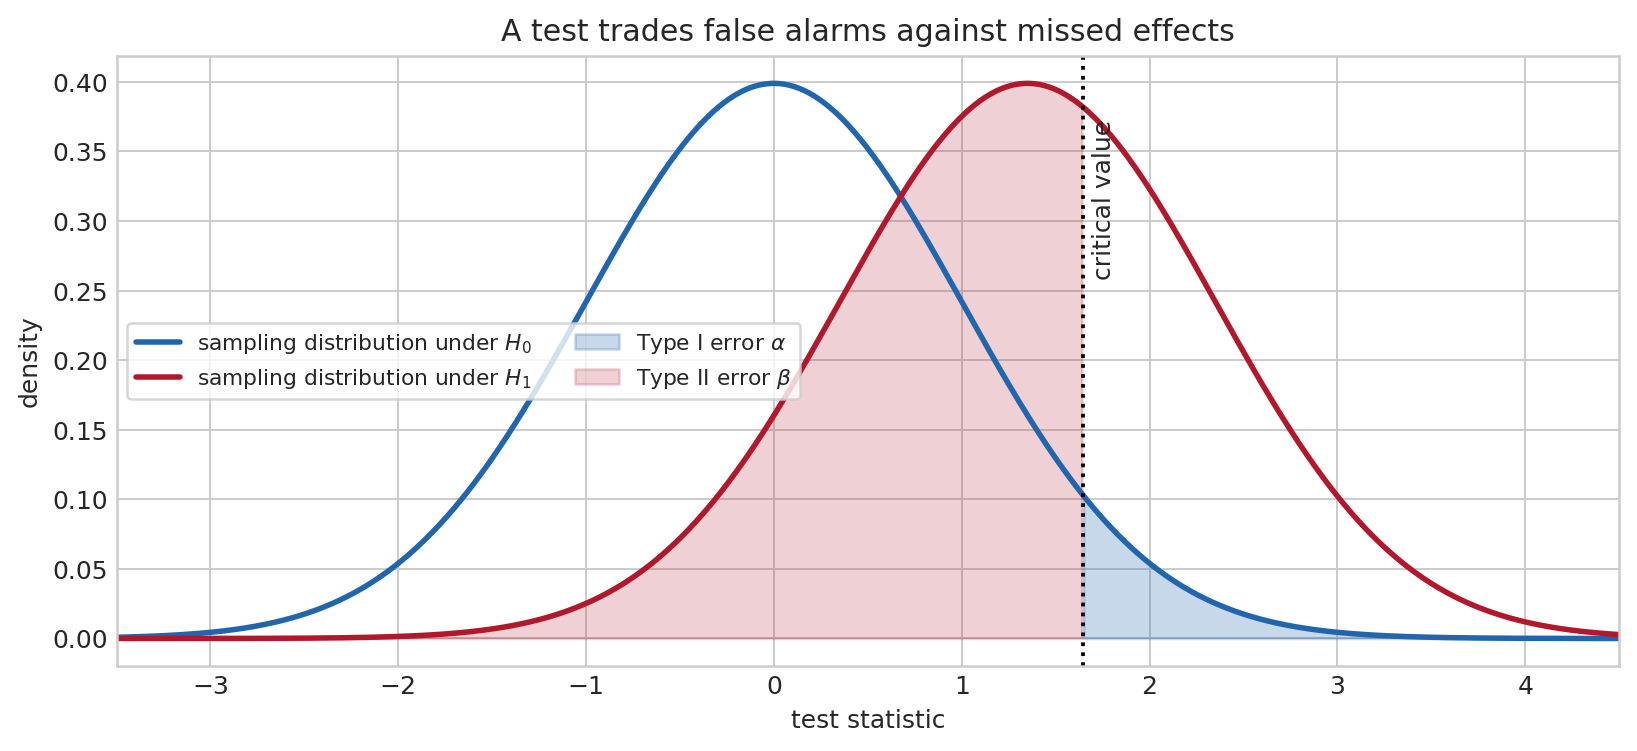
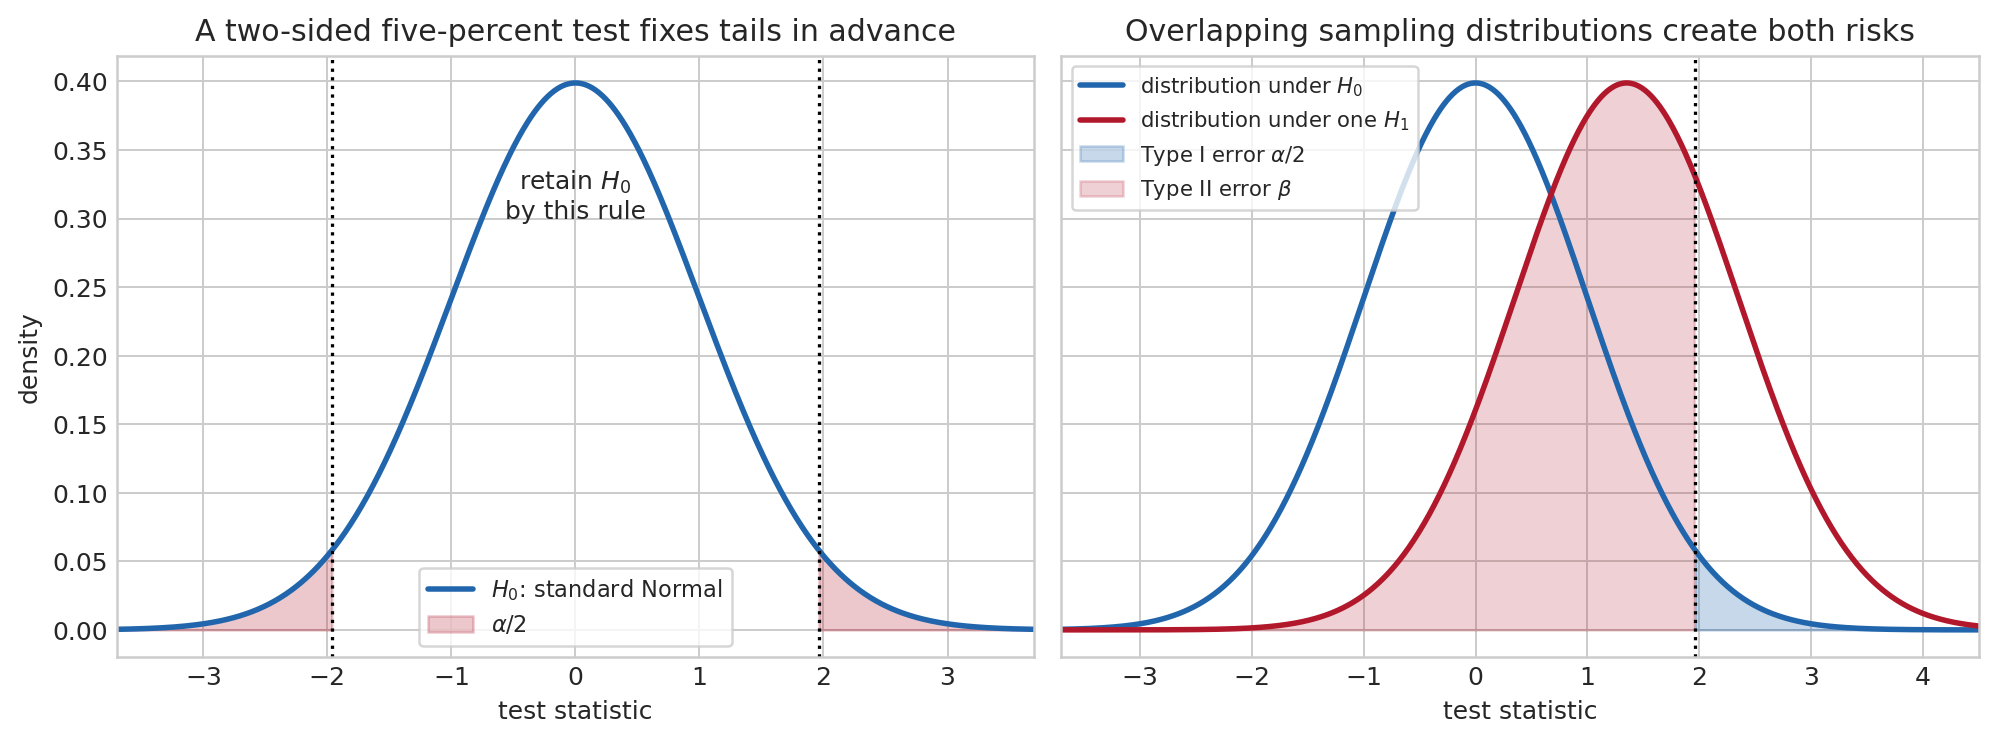
Expand probability and inference foundations

diff --git a/code/python/make_math_foundations_figures.py b/code/python/make_math_foundations_figures.py
@@ -247,6 +247,36 @@ def distribution_moments():
     plt.close(fig)
 
 
+def income_skewness_and_kurtosis():
+    x_income = np.linspace(.01, 7.5, 800)
+    median, sigma_log = 1.0, .72
+    income = stats.lognorm.pdf(x_income, s=sigma_log, scale=median)
+    mean_income = median * np.exp(sigma_log**2 / 2)
+    x = np.linspace(-5, 5, 900)
+    t_scale = np.sqrt(3 / 5)
+    normal_tail = 2 * stats.norm.sf(2)
+    t_tail = 2 * stats.t.sf(2 / t_scale, 5)
+    fig, axes = plt.subplots(1, 2, figsize=(11, 4.25))
+    axes[0].plot(x_income, income, color=GOLD, lw=2.4)
+    axes[0].fill_between(x_income, 0, income, color=GOLD, alpha=.14)
+    axes[0].axvline(median, color=BLUE, lw=1.8, ls=":", label=f"median = {median:.1f}")
+    axes[0].axvline(mean_income, color=RED, lw=1.8, ls="--", label=f"mean = {mean_income:.2f}")
+    axes[0].annotate("rare high incomes\npull the mean rightward", xy=(mean_income, .20), xytext=(3.7, .47),
+                     arrowprops={"arrowstyle": "->", "color": GREY}, color=GREY, fontsize=10)
+    axes[0].set(title="Skewness: income is a familiar right-tailed example", xlabel="income, in arbitrary units", ylabel="density", xlim=(0, 7.5))
+    axes[0].legend(frameon=True)
+    axes[1].plot(x, stats.norm.pdf(x), color=BLUE, lw=2.2, label="Normal, variance one")
+    axes[1].plot(x, stats.t.pdf(x / t_scale, 5) / t_scale, color=PURPLE, lw=2.2, label=r"$t_5$, variance one")
+    axes[1].fill_between(x[x >= 2], 0, stats.t.pdf(x[x >= 2] / t_scale, 5) / t_scale, color=PURPLE, alpha=.16)
+    axes[1].fill_between(x[x <= -2], 0, stats.t.pdf(x[x <= -2] / t_scale, 5) / t_scale, color=PURPLE, alpha=.16)
+    axes[1].set(title="Kurtosis: equal variance, very different tail risk", xlabel="standardised return", ylabel="density")
+    axes[1].legend(frameon=True)
+    axes[1].text(.5, .76, f"$P(|X|>2)$: {normal_tail:.3f} vs {t_tail:.3f}", transform=axes[1].transAxes, ha="center", fontsize=10)
+    fig.tight_layout()
+    fig.savefig(FIGURES / "income-skewness-kurtosis.png", dpi=180, bbox_inches="tight")
+    plt.close(fig)
+
+
 def basic_distributions():
     k = np.arange(0, 13)
     x = np.linspace(0, 5, 700)
@@ -301,18 +331,49 @@ def hypothesis_testing():
     x = np.linspace(-4, 5, 1000)
     h0 = stats.norm.pdf(x)
     h1 = stats.norm.pdf(x, loc=1.35)
-    critical = stats.norm.ppf(.95)
-    fig, ax = plt.subplots(figsize=(9.2, 4.3))
-    ax.plot(x, h0, color=BLUE, lw=2.2, label=r"sampling distribution under $H_0$")
-    ax.plot(x, h1, color=RED, lw=2.2, label=r"sampling distribution under $H_1$")
-    ax.fill_between(x[x >= critical], 0, h0[x >= critical], color=BLUE, alpha=.25, label=r"Type I error $\alpha$")
-    ax.fill_between(x[x < critical], 0, h1[x < critical], color=RED, alpha=.20, label=r"Type II error $\beta$")
-    ax.axvline(critical, color="black", ls=":", lw=1.5)
-    ax.text(critical + .05, ax.get_ylim()[1] * .89, "critical value", rotation=90, va="top")
-    ax.set(title="A test trades false alarms against missed effects", xlabel="test statistic", ylabel="density", xlim=(-3.5, 4.5))
-    ax.legend(frameon=True, ncol=2, fontsize=8.7)
+    left_critical, right_critical = stats.norm.ppf(.025), stats.norm.ppf(.975)
+    fig, axes = plt.subplots(1, 2, figsize=(11.2, 4.25), sharey=True)
+    ax = axes[0]
+    ax.plot(x, h0, color=BLUE, lw=2.2, label=r"$H_0$: standard Normal")
+    ax.fill_between(x[x <= left_critical], 0, h0[x <= left_critical], color=RED, alpha=.24, label=r"$\alpha/2$")
+    ax.fill_between(x[x >= right_critical], 0, h0[x >= right_critical], color=RED, alpha=.24)
+    ax.axvline(left_critical, color="black", ls=":", lw=1.3)
+    ax.axvline(right_critical, color="black", ls=":", lw=1.3)
+    ax.text(0, .30, "retain $H_0$\nby this rule", ha="center", fontsize=10)
+    ax.set(title="A two-sided five-percent test fixes tails in advance", xlabel="test statistic", ylabel="density", xlim=(-3.7, 3.7))
+    ax.legend(frameon=True, fontsize=9)
+    ax = axes[1]
+    ax.plot(x, h0, color=BLUE, lw=2.2, label=r"distribution under $H_0$")
+    ax.plot(x, h1, color=RED, lw=2.2, label=r"distribution under one $H_1$")
+    ax.fill_between(x[x >= right_critical], 0, h0[x >= right_critical], color=BLUE, alpha=.25, label=r"Type I error $\alpha/2$")
+    ax.fill_between(x[x < right_critical], 0, h1[x < right_critical], color=RED, alpha=.20, label=r"Type II error $\beta$")
+    ax.axvline(right_critical, color="black", ls=":", lw=1.3)
+    ax.set(title="Overlapping sampling distributions create both risks", xlabel="test statistic", xlim=(-3.7, 4.5))
+    ax.legend(frameon=True, fontsize=8.5)
     fig.tight_layout()
     fig.savefig(FIGURES / "hypothesis-testing-errors.png", dpi=180, bbox_inches="tight")
+    plt.close(fig)
+
+
+def repeated_confidence_intervals():
+    rng = np.random.default_rng(2026)
+    true_mean, n, repetitions = 0.8, 24, 24
+    means = rng.normal(true_mean, 1.0, size=(repetitions, n)).mean(axis=1)
+    means[0] = true_mean + .70
+    half_width = stats.t.ppf(.975, n - 1) / np.sqrt(n)
+    low, high = means - half_width, means + half_width
+    misses = (low > true_mean) | (high < true_mean)
+    fig, ax = plt.subplots(figsize=(9.2, 5.2))
+    for i, (lo, hi, mean, miss) in enumerate(zip(low, high, means, misses), start=1):
+        colour = RED if miss else BLUE
+        ax.plot([lo, hi], [i, i], color=colour, lw=1.8)
+        ax.scatter(mean, i, color=colour, s=20, zorder=3)
+    ax.axvline(true_mean, color="black", ls=":", lw=1.5, label="fixed true mean")
+    ax.set(title="Confidence intervals across repeated samples", xlabel="candidate values for the mean", ylabel="independent samples", ylim=(0, repetitions + 1))
+    ax.text(.98, .04, "blue: interval covers the truth\nred: interval misses it", transform=ax.transAxes, ha="right", va="bottom", fontsize=10)
+    ax.legend(frameon=True, loc="upper left")
+    fig.tight_layout()
+    fig.savefig(FIGURES / "confidence-interval-repeated-sampling.png", dpi=180, bbox_inches="tight")
     plt.close(fig)
 
 
@@ -332,6 +393,40 @@ def stochastic_processes():
     axes[1].set(title=r"Unit root: $X_t=X_{t-1}+\varepsilon_t$", xlabel="quarter")
     fig.tight_layout()
     fig.savefig(FIGURES / "stationary-ar-versus-random-walk.png", dpi=180, bbox_inches="tight")
+    plt.close(fig)
+
+
+def markov_chain():
+    fig, axes = plt.subplots(1, 2, figsize=(10.8, 4.2))
+    ax = axes[0]
+    positions = {"expansion": (0, 0), "recession": (2.4, 0)}
+    for state, pos in positions.items():
+        circle = plt.Circle(pos, .46, facecolor=BLUE if state == "expansion" else RED, alpha=.16,
+                            edgecolor=BLUE if state == "expansion" else RED, lw=2)
+        ax.add_patch(circle)
+        ax.text(*pos, state, ha="center", va="center", fontsize=11)
+    ax.annotate("", xy=(1.94, .12), xytext=(.46, .12), arrowprops={"arrowstyle": "->", "connectionstyle": "arc3,rad=.22", "lw": 1.7, "color": RED})
+    ax.annotate("", xy=(.46, -.12), xytext=(1.94, -.12), arrowprops={"arrowstyle": "->", "connectionstyle": "arc3,rad=.22", "lw": 1.7, "color": BLUE})
+    ax.text(1.2, .52, "$0.08$", color=RED, ha="center")
+    ax.text(1.2, -.65, "$0.35$", color=BLUE, ha="center")
+    ax.annotate("", xy=(-.18, .35), xytext=(-.38, .05), arrowprops={"arrowstyle": "->", "connectionstyle": "arc3,rad=1.3", "lw": 1.5, "color": BLUE})
+    ax.annotate("", xy=(2.58, .35), xytext=(2.78, .05), arrowprops={"arrowstyle": "->", "connectionstyle": "arc3,rad=1.3", "lw": 1.5, "color": RED})
+    ax.text(-.55, .65, "$0.92$", color=BLUE)
+    ax.text(2.72, .65, "$0.65$", color=RED)
+    ax.set(title="A Markov model: next period depends on the current regime", xlim=(-1, 3.5), ylim=(-1.1, 1.1), aspect="equal")
+    ax.axis("off")
+    ax = axes[1]
+    transition = np.array([[.92, .08], [.35, .65]])
+    probabilities = [np.array([1., 0.])]
+    for _ in range(12):
+        probabilities.append(probabilities[-1] @ transition)
+    probabilities = np.asarray(probabilities)
+    ax.plot(probabilities[:, 0], color=BLUE, lw=2.2, label="probability of expansion")
+    ax.plot(probabilities[:, 1], color=RED, lw=2.2, label="probability of recession")
+    ax.set(title="Distribution over regimes evolves by multiplication", xlabel="quarters ahead", ylabel="probability", ylim=(0, 1))
+    ax.legend(frameon=True)
+    fig.tight_layout()
+    fig.savefig(FIGURES / "markov-regime-process.png", dpi=180, bbox_inches="tight")
     plt.close(fig)
 
 
@@ -360,15 +455,21 @@ def fourier_signal():
     freq = np.fft.rfftfreq(len(t), d=1)
     power = np.abs(np.fft.rfft(signal - signal.mean())) ** 2 / len(t)
     period = 1 / freq[1:]
-    fig, axes = plt.subplots(2, 1, figsize=(10.5, 5.5))
-    axes[0].plot(t, signal, color=BLUE, lw=1.3)
-    axes[0].set(title="A time series can contain several rhythms at once", xlabel="observation", ylabel="value")
+    slow = 1.2 * np.sin(2 * np.pi * t / 24)
+    fast = .55 * np.sin(2 * np.pi * t / 7)
+    fig, axes = plt.subplots(3, 1, figsize=(10.5, 7.3))
+    axes[0].plot(t, slow, color=PURPLE, lw=1.45, label="period 24")
+    axes[0].plot(t, fast, color=GOLD, lw=1.25, label="period 7")
+    axes[0].set(title="Two elementary oscillations have distinct periods", xlabel="observation", ylabel="component")
+    axes[0].legend(frameon=True, ncol=2)
+    axes[1].plot(t, signal, color=BLUE, lw=1.3)
+    axes[1].set(title="Observed data add the components and noise", xlabel="observation", ylabel="value")
     order = np.argsort(period)
-    axes[1].plot(period[order], power[1:][order], color=PURPLE, lw=1.6)
+    axes[2].plot(period[order], power[1:][order], color=PURPLE, lw=1.6)
     for value, text in [(7, "7"), (24, "24")]:
-        axes[1].axvline(value, color=RED, lw=1, ls=":")
-        axes[1].text(value, axes[1].get_ylim()[1] * .83, f"period {text}", color=RED, ha="center")
-    axes[1].set(xlim=(2, 50), title="The discrete Fourier transform reveals those rhythms", xlabel="period (observations)", ylabel="periodogram")
+        axes[2].axvline(value, color=RED, lw=1, ls=":")
+        axes[2].text(value, axes[2].get_ylim()[1] * .83, f"period {text}", color=RED, ha="center")
+    axes[2].set(xlim=(2, 50), title="The discrete Fourier transform reveals those rhythms", xlabel="period (observations)", ylabel="periodogram")
     fig.tight_layout()
     fig.savefig(FIGURES / "fourier-time-and-frequency.png", dpi=180, bbox_inches="tight")
     plt.close(fig)
@@ -384,9 +485,12 @@ if __name__ == "__main__":
     llm_and_clt()
     sampling_distributions()
     distribution_moments()
+    income_skewness_and_kurtosis()
     basic_distributions()
     ols_geometry()
     hypothesis_testing()
+    repeated_confidence_intervals()
     stochastic_processes()
+    markov_chain()
     bayesian_update()
     fourier_signal()
